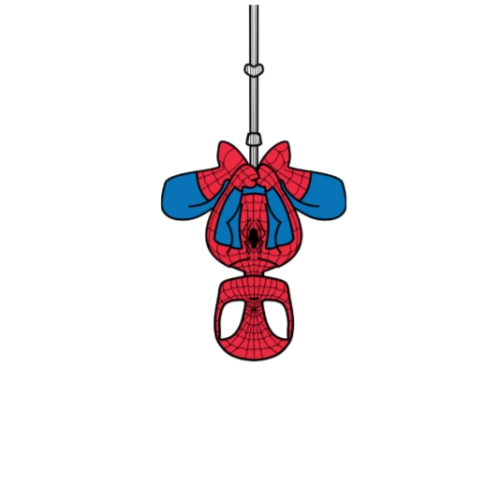
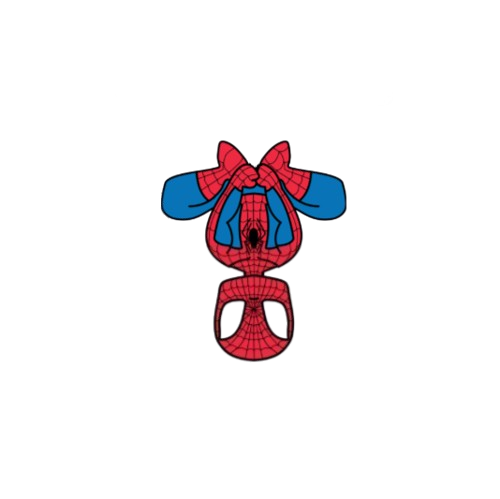
fix: build latest spidey animation to docs folder for github pages

diff --git a/src/components/SpiderAnimation.tsx b/src/components/SpiderAnimation.tsx
@@ -54,10 +54,11 @@ export default function SpiderAnimation() {
       </motion.div>
       
       {/* Spider / Spiderman Container */}
-      {/* Using negative margin (-mt-24) to pull the massive image up so the string perfectly overlaps his hands */}
+      {/* Adjust the marginTop value here to perfectly attach the web to his hands. 
+          More negative (e.g. -250px) pulls him higher up the string. */}
       <motion.div
-        className="relative flex items-start justify-center -mt-24 z-30"
-        style={{ y: 0 }}
+        className="relative flex items-start justify-center z-30"
+        style={{ y: 0, marginTop: '-240px' }}
       >
         {!imageError ? (
           <img 
